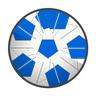
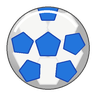
V5.2 Fiks bugs

diff --git a/game.js b/game.js
@@ -1,4 +1,4 @@
-// Marvin mod verden - Version 5.1 komplet boss-turnering
+// Marvin mod verden - Version 5.2 komplet boss-turnering
 // Mobil-først browser-spil lavet med Phaser.js via CDN.
 // Denne fil er komplet og kan overskrive den eksisterende game.js.
 
@@ -438,6 +438,9 @@ class GameScene extends Phaser.Scene {
     this.superCooldownUntil = 0;
     this.waitingForNextWave = false;
     this.bossIntroActive = false;
+    this.bossDefeatTransition = false;
+    this.bossStartedForLevel = 0;
+    this.lastWaveStartedAt = 0;
     if (this.nextWaveTimer) {
       this.nextWaveTimer.remove(false);
       this.nextWaveTimer = null;
@@ -593,6 +596,8 @@ class GameScene extends Phaser.Scene {
     this.wave = 0;
     this.waitingForNextWave = true;
     this.bossIntroActive = false;
+    this.bossDefeatTransition = false;
+    this.lastWaveStartedAt = 0;
     if (this.nextWaveTimer) this.nextWaveTimer.remove(false);
     this.showCenterMessage("MARVIN MOD VERDEN", "Tved Stadion er klar!", 1400);
     this.nextWaveTimer = this.time.delayedCall(1200, () => {
@@ -648,12 +653,13 @@ class GameScene extends Phaser.Scene {
     this.cleanupObjects();
     this.updateHud();
 
-    if (!this.bossActive && !this.bossIntroActive && !this.waitingForNextWave && this.wave > 0 && this.enemies.countActive(true) === 0 && !this.upgradeContainer) {
+    const waveHasBeenVisibleLongEnough = this.lastWaveStartedAt === 0 || time - this.lastWaveStartedAt > 1400;
+    if (!this.bossActive && !this.bossIntroActive && !this.bossDefeatTransition && !this.waitingForNextWave && waveHasBeenVisibleLongEnough && this.wave > 0 && this.enemies.countActive(true) === 0 && !this.upgradeContainer) {
       this.waitingForNextWave = true;
       if (this.nextWaveTimer) this.nextWaveTimer.remove(false);
       this.nextWaveTimer = this.time.delayedCall(900, () => {
         this.nextWaveTimer = null;
-        if (this.gameState !== "playing") return;
+        if (this.gameState !== "playing" || this.bossDefeatTransition) return;
         if (this.wave >= 3) this.startBoss();
         else this.startNextWave();
       });
@@ -734,7 +740,11 @@ class GameScene extends Phaser.Scene {
   }
 
   startNextWave() {
-    if (this.gameState !== "playing" || this.bossActive || this.bossIntroActive) return;
+    if (this.gameState !== "playing" || this.bossActive || this.bossIntroActive || this.bossDefeatTransition) return;
+    if (this.nextWaveTimer) {
+      this.nextWaveTimer.remove(false);
+      this.nextWaveTimer = null;
+    }
     if (this.wave >= 3) {
       this.startBoss();
       return;
@@ -742,6 +752,7 @@ class GameScene extends Phaser.Scene {
 
     this.waitingForNextWave = false;
     this.wave += 1;
+    this.lastWaveStartedAt = this.time.now;
     this.applyLevelTheme();
     if (this.wave === 1) this.showToast("Hold SKYD nede mens du styrer");
 
@@ -950,7 +961,9 @@ class GameScene extends Phaser.Scene {
   }
 
   startBoss() {
-    if (this.gameState !== "playing" || this.bossActive || this.bossIntroActive) return;
+    if (this.gameState !== "playing" || this.bossActive || this.bossIntroActive || this.bossDefeatTransition) return;
+    if (this.bossStartedForLevel === this.level) return;
+    this.bossStartedForLevel = this.level;
     this.bossIntroActive = true;
     this.bossActive = true;
     this.waitingForNextWave = false;
@@ -1028,12 +1041,7 @@ class GameScene extends Phaser.Scene {
       this.bossLastSpecial = time;
       this.spawnWarningBeam(this.boss.x, 0x66ff8e);
     }
-    if (hpPct < 0.32 && time - this.bossLastMinion > 3200) {
-      this.bossLastMinion = time;
-      this.cameras.main.shake(160, 0.011);
-      this.spawnEnemy(78, 185, "normal");
-      this.spawnEnemy(GAME_WIDTH - 78, 195, "wobbler");
-    }
+    // Gormi-Zilla spawner ikke længere ekstra bolde midt i bosskampen.
   }
 
 
@@ -1175,6 +1183,9 @@ class GameScene extends Phaser.Scene {
     this.hazards.clear(true, true);
     this.powerups.clear(true, true);
     this.bossActive = false;
+    this.bossIntroActive = false;
+    this.bossDefeatTransition = true;
+    this.waitingForNextWave = true;
     this.setBossUi(false);
 
     this.lives = this.maxLives || DIFFICULTY[this.selectedDifficulty].startLives;
@@ -1191,6 +1202,7 @@ class GameScene extends Phaser.Scene {
 
   showUpgradeChoice() {
     if (this.gameState !== "playing") return;
+    this.bossDefeatTransition = false;
     this.physics.pause();
     this.gameState = "upgrade";
     this.upgradeContainer = this.add.container(0, 0).setDepth(780);
@@ -1213,6 +1225,9 @@ class GameScene extends Phaser.Scene {
         this.wave = 0;
         this.waitingForNextWave = true;
         this.bossIntroActive = false;
+        this.bossActive = false;
+        this.bossDefeatTransition = false;
+        this.lastWaveStartedAt = 0;
         this.gameState = "playing";
         this.physics.resume();
         if (this.nextWaveTimer) this.nextWaveTimer.remove(false);
@@ -1337,7 +1352,7 @@ class GameScene extends Phaser.Scene {
     this.tweens.add({ targets: intro, alpha: 1, duration: 450 });
     this.time.delayedCall(4200, () => {
       this.tweens.add({ targets: intro, alpha: 0, duration: 450, onComplete: () => intro.destroy(true) });
-      if (this.gameState === "playing" && this.bossActive) {
+      if (this.gameState === "playing" && this.bossActive && !this.bossDefeatTransition && this.bossStartedForLevel === this.level) {
         this.bossIntroActive = false;
         this.spawnBoss(data);
       } else {

diff --git a/index.html b/index.html
@@ -7,7 +7,7 @@
   <title>Marvin mod verden v5</title>
   <link rel="icon" type="image/png" sizes="192x192" href="assets/icon-192.png" />
   <link rel="apple-touch-icon" href="assets/icon-192.png" />
-  <link rel="stylesheet" href="style.css?v=5-1" />
+  <link rel="stylesheet" href="style.css?v=5-2" />
 </head>
 <body>
   <div id="game-shell">
@@ -15,6 +15,6 @@
   </div>
 
   <script src="https://cdn.jsdelivr.net/npm/phaser@3.80.1/dist/phaser.min.js"></script>
-  <script src="game.js?v=5-1"></script>
+  <script src="game.js?v=5-2"></script>
 </body>
 </html>

diff --git a/README.md b/README.md
@@ -1,54 +1,20 @@
-# Marvin mod verden v5.1.0 - komplet boss-turnering
+# Marvin mod verden - v5.2 komplet fix
 
 Clean GitHub Pages-version uden service worker/PWA-cache.
 
-## Nyt i v5.1.0
+## Rettelser i v5.2
 
-- 5 bosser i fast rækkefølge:
-  1. Gormi-Zilla - Tved Stadion
-  2. Kimi-Kaze - Omklædningsrummet
-  3. Ricko Royal - Pokerbordet
-  4. Michaels Cykelsme' - Sports-pubben
-  5. Frisko-Dasko - Diskoteket
-- 3 waves før hver boss.
-- Wave-counter starter korrekt på Wave 1.
-- Længere boss-intro.
-- Nye baggrunde til alle baner.
-- Nye boss-sprites: Ricko Royal og Kimi-Kaze.
-- Powerups falder manuelt og burde ikke sidde fast.
-- Færre powerups.
-- Synligt livsystem.
-- Marvin får fyldt liv op efter hver boss.
-- Bevarer det fungerende skud/projektil-fix fra v4.6/v4.7.
+- Wave starter korrekt på Wave 1.
+- Ekstra boss-intro efter Kimi-Kaze er blokeret.
+- Flow efter boss 2 er låst, så spillet kan fortsætte til bane 3.
+- Boss-defeat transition er beskyttet, så samme boss ikke kan starte igen imens opgraderingsmenuen venter.
+- Gormi-Zilla spawner ikke længere ekstra almindelige bolde midt i bosskampen.
+- Nye 96x96 RGBA-bolde med gennemsigtig baggrund.
+- index.html loader game.js?v=5-2.
 
-## Upload til GitHub Pages
+## Upload
 
-Læg alle filer i roden af repoet:
+Læg alle filer fra denne mappe direkte i roden af repoet.
+Slet fortsat service-worker.js og manifest.json, hvis de ligger der.
 
-- `index.html`
-- `style.css`
-- `game.js`
-- `README.md`
-- `clear-cache.html`
-- `.nojekyll`
-- `assets/`
-
-Slet stadig disse filer, hvis de findes:
-
-- `service-worker.js`
-- `manifest.json`
-
-Efter push kan du besøge:
-
-`https://martinpedersen7.github.io/Marvin-mod-verden/clear-cache.html`
-
-Derefter spil:
-
-`https://martinpedersen7.github.io/Marvin-mod-verden/`
-
-
-## v5.1 fix
-- Wave starter nu korrekt på Wave 1.
-- Dobbelt boss-intro er låst væk.
-- Spilflow efter boss 2 er gjort mere robust.
-- Nye transparente 96x96 fodbold-PNGer uden hvid baggrund.
+Efter push kan du åbne clear-cache.html én gang.